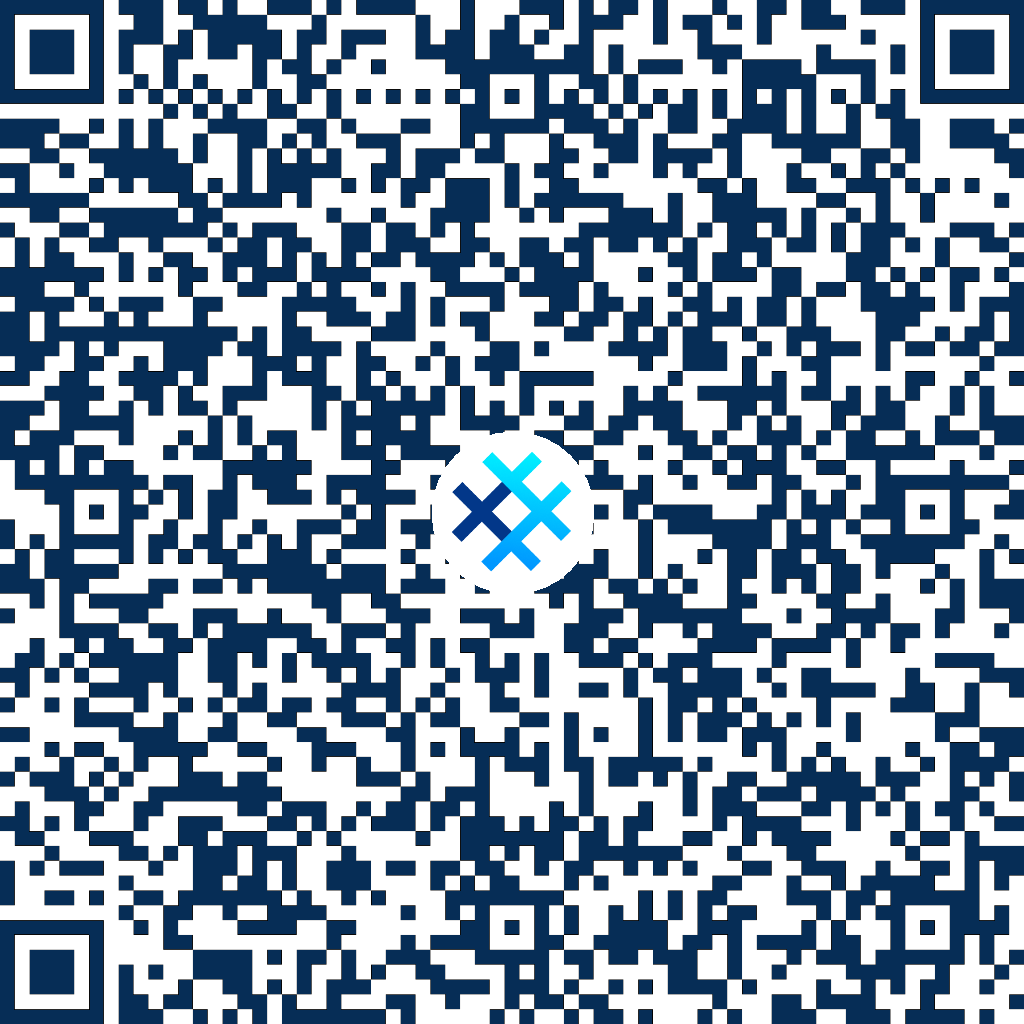
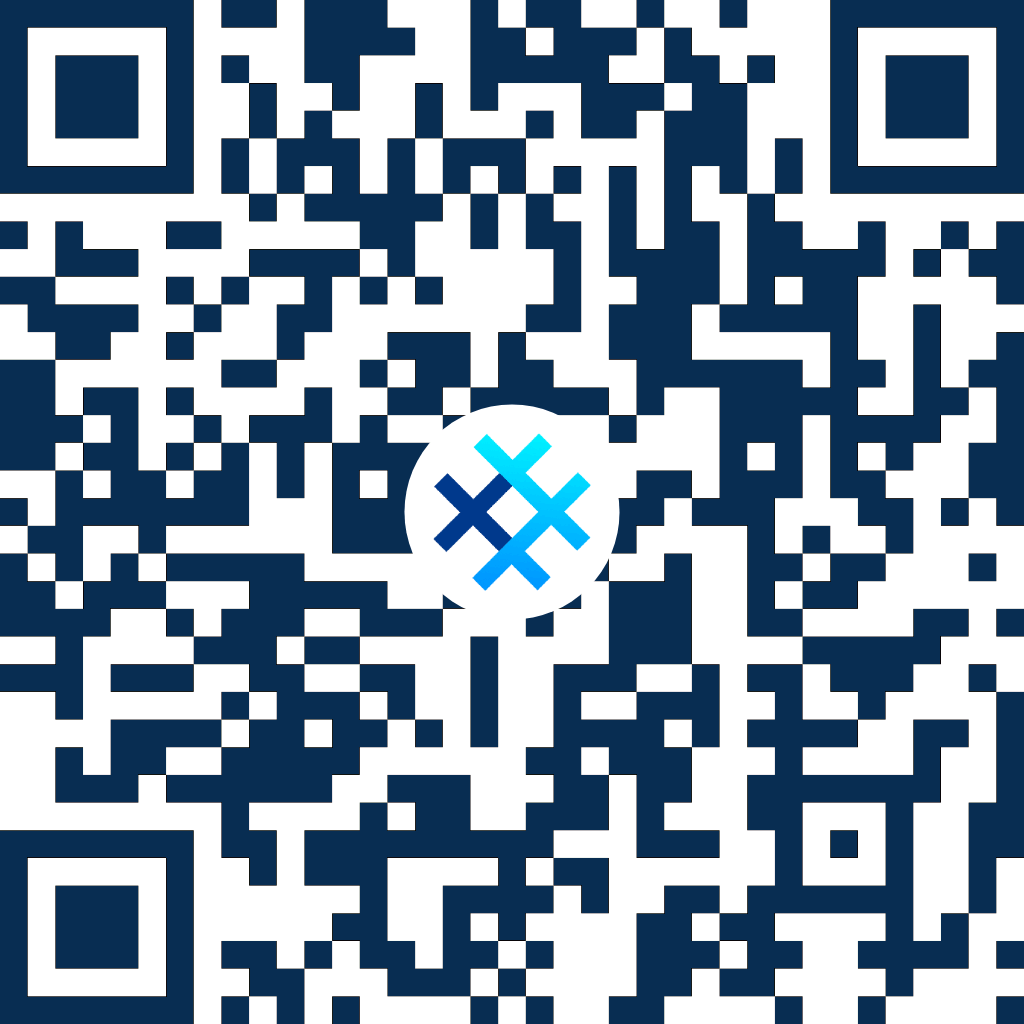
replace link

diff --git a/blog/join-our-community.html b/blog/join-our-community.html
@@ -95,7 +95,7 @@ you can install
 from the AUR in order to use SimpleX chat.
 On Android,
 install <a href="https://f-droid.org/en/packages/chat.simplex.app/">SimpleX Chat</a> from F-Droid.</p>
-<p><a target="_blank" class="md-button simplex" href="https://simplex.chat/contact#/?v=2-7&smp=smp%3A%2F%2F6iIcWT_dF2zN_w5xzZEY7HI2Prbh3ldP07YTyDexPjE%3D%40smp10.simplex.im%2FzhO5MVmLUUhH5hh-te8Ka8rp1CQqq8kZ%23%2F%3Fv%3D1-3%26dh%3DMCowBQYDK2VuAyEAX5m140ScsaXwqLoZtI0vtCRN4T8PCxEf-m0G-0vEbFQ%253D%26srv%3Drb2pbttocvnbrngnwziclp2f4ckjq65kebafws6g4hy22cdaiv5dwjqd.onion&data=%7B%22type%22%3A%22group%22%2C%22groupLinkId%22%3A%22i28MPKFVNz_u7jjOG-CUGA%3D%3D%22%7D">SimpleX chat</a></p>
+<p><a target="_blank" class="md-button simplex" href="https://smp10.simplex.im/g#QF5iZ2F69leXiUi8Bwa0h3HSroCTCodfK6DVgyvkQ5c">SimpleX chat</a></p>
 <details>
 <summary>QR code</summary>
 <p align="center"><img style="max-height: 50vh;" alt="SimpleX QR" src="img/simplex-chat-link.webp"></p>

diff --git a/blog/join-our-community.md b/blog/join-our-community.md
@@ -40,7 +40,7 @@ from the AUR in order to use SimpleX chat.
 On Android,
 install [SimpleX Chat](https://f-droid.org/en/packages/chat.simplex.app/) from F-Droid.
 
-<a target="_blank" class="md-button simplex" href="https://simplex.chat/contact#/?v=2-7&smp=smp%3A%2F%2F6iIcWT_dF2zN_w5xzZEY7HI2Prbh3ldP07YTyDexPjE%3D%40smp10.simplex.im%2FzhO5MVmLUUhH5hh-te8Ka8rp1CQqq8kZ%23%2F%3Fv%3D1-3%26dh%3DMCowBQYDK2VuAyEAX5m140ScsaXwqLoZtI0vtCRN4T8PCxEf-m0G-0vEbFQ%253D%26srv%3Drb2pbttocvnbrngnwziclp2f4ckjq65kebafws6g4hy22cdaiv5dwjqd.onion&data=%7B%22type%22%3A%22group%22%2C%22groupLinkId%22%3A%22i28MPKFVNz_u7jjOG-CUGA%3D%3D%22%7D">SimpleX chat</a>
+<a target="_blank" class="md-button simplex" href="https://smp10.simplex.im/g#QF5iZ2F69leXiUi8Bwa0h3HSroCTCodfK6DVgyvkQ5c">SimpleX chat</a>
 
 <details>
 <summary>QR code</summary>
